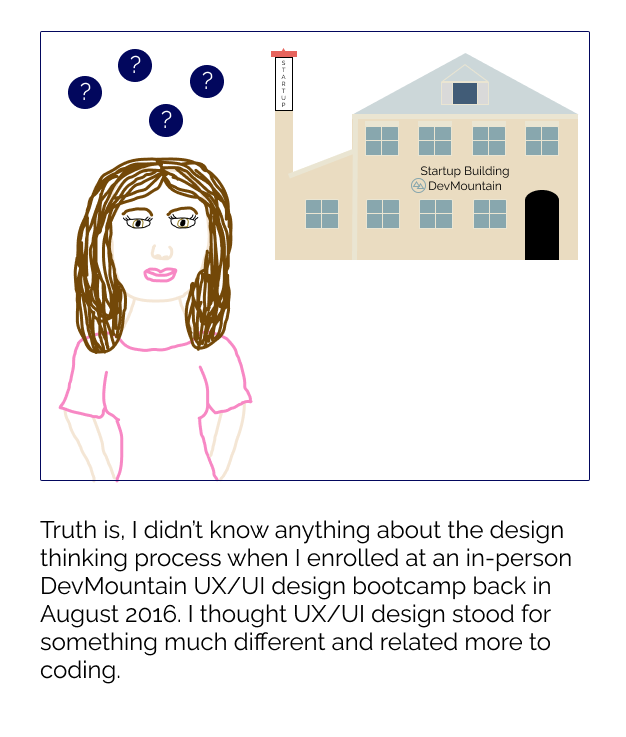
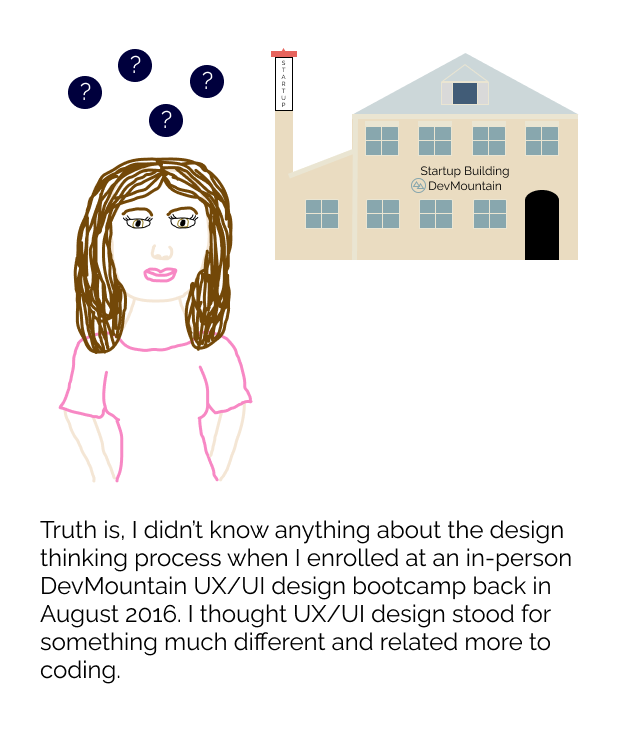
changed blue text color and added borders

Changed region(s): [[0.0911, 0.0624, 0.2428, 0.156], [0.2428, 0.0936, 0.3642, 0.1872]]

diff --git a/src/Pages/Landing.js b/src/Pages/Landing.js
@@ -8,12 +8,9 @@ import CardContent from '@mui/material/CardContent';
 import Typography from '@mui/material/Typography';
 import Box from '@mui/material/Box';
 import Link from '@mui/material/Link';
-import DVNImage from '../Images/disneyvsnetflix.png';
 import WebsiteUIDesignandRedesign from '../Images/codafi/websiteuidesign.png';
 import CCFinalMockups from '../Images/catwalkcompany/images/hi-fidelitywireframes/FinalMockups.png'; 
 import FLCINCMockup from '../Images/algebra1images/flcredesign.png'; 
-import tshirtDesigns from '../Images/homemadegifts/tshirtdesigns.png';
-import StoryBook from '../Images/logos/storybookinc.png'; 
 import '../../src/Portfolio.css';
 
 
@@ -44,7 +41,7 @@ const introText = {
   margin: '10px 0px',
   fontSize: '36px',
   fontFamily: 'Raleway, sans-serif', 
-  color: '#02075D',
+  color: '#00003D',
 
 }
 
@@ -63,7 +60,7 @@ const casestudyBox = {
 
 const headerStylesA = {
   margin: '50px auto', 
-  color: '#02075D',
+  color: '#00003D',
   fontSize: '36px', 
   fontFamily: 'Raleway, sans-serif', 
 //  fontWeight: '400', 
@@ -90,7 +87,10 @@ const cardStyles = {
 margin: '20px auto', 
 textDecoration: 'none',
 fontFamily: 'Raleway, sans-serif', 
-
+border: 'none', 
+boxShadow: '0px 0px 2px #ccc',
+borderRadius: '5px',
+backgroundColor: '#fef'
 }
 
 const cardStylesImage = {

diff --git a/src/Portfolio.css b/src/Portfolio.css
@@ -98,7 +98,7 @@ p {
 
  .navbar-nav a {
     font-family: 'Raleway';
-    color: #02075D !important;
+    color: #00003D !important;
     margin: 0px 20px !important; 
     border-bottom: 1px solid transparent;
     padding: 10px;
@@ -107,12 +107,12 @@ p {
 }
 
 .navbar-nav a:hover {
-border-bottom: 1px solid #02075D;
+border-bottom: 1px solid #00003D;
 padding: 10px;
 }
 
 .navbar-nav a:active {
-    border-bottom: 1px solid #02075D;
+    border-bottom: 1px solid #00003D;
     padding: 10px;
     }
 
@@ -127,14 +127,14 @@ padding: 10px;
 
 .navLinkSocial svg {
     margin: 0px 20px !important;
-    color: #02075D !important;
+    color: #00003D !important;
     font-size: 24px;
     border-bottom: 1px solid transparent;
     padding: 10px;
 }
 
 .navLinkSocial svg:hover {
-    border-bottom: 1px solid #02075D;
+    border-bottom: 1px solid #00003D;
     padding: 10px;
     
   
@@ -144,7 +144,7 @@ padding: 10px;
 
    
 .cardStyles:hover {
-    box-shadow: 8px 28px 50px rgba(39,44,49,.07), 1px 6px 12px rgba(39,44,49,.04);
+    box-shadow: 2px 10px 15px rgba(39,44,49,.07), 1px 6px 7px rgba(39,44,49,.04);
     transition: all .4s ease; /* zoom in */
     cursor: pointer; 
   

diff --git a/src/Pages/Resume.js b/src/Pages/Resume.js
@@ -13,7 +13,7 @@ import ResumePDF from '../Images/resume/aubreyjonesuxuidesignresume.pdf';
 
 const headerStylesA = {
   marginBottom: '50px', 
-  color: '#02075D',
+  color: '#00003D',
   fontSize: '36px', 
   fontFamily: 'Raleway, sans-serif', 
 //  fontWeight: '400', 
@@ -39,7 +39,7 @@ const cardStyles = {
 const headerStylesB = {
   marginTop: '50px', 
   marginBottom: '50px', 
-  color: '#02075D',
+  color: '#00003D',
   fontSize: '36px', 
   fontFamily: 'Raleway, sans-serif', 
 //  fontWeight: '400', 
@@ -50,7 +50,7 @@ const headerStylesB = {
 
 const resumeType = {
  // margin: '50px 100px 50px 50px', 
-  color: '#02075D',
+  color: '#00003D',
   fontSize: '24px', 
   fontFamily: 'Raleway, sans-serif', 
 }
@@ -60,14 +60,14 @@ const resumelink = {
   marginBottom: '50px',
   fontFamily: 'Raleway, sans-serif',
   textDecoration: 'none',
-  backgroundColor: '#02075D',
+  backgroundColor: '#00003D',
   padding: '10px',
   color: 'white',
   width: '100px',
   textAlign: 'center',
   "&:hover": {
     color: 'white',
-    backgroundColor: '#02075D',
+    backgroundColor: '#00003D',
    // border: '1px solid #30638E', 
     cursor: 'pointer'
    

diff --git a/src/Pages/About.js b/src/Pages/About.js
@@ -36,7 +36,7 @@ const boxStylesA = {
 
 const headerStylesA = {
   //margin: '50px auto', 
-  color: '#02075D',
+  color: '#00003D',
   fontSize: '36px', 
   fontFamily: 'Raleway, sans-serif', 
 //  fontWeight: '400', 
@@ -56,7 +56,7 @@ const boxStylesB = {
 const headerStylesB = {
   justifyContent: 'start',
   margin: '50px auto',
-  color: '#02075D',
+  color: '#00022E',
   fontSize: '36px', 
   fontFamily: 'Raleway, sans-serif', 
 //  fontWeight: '400', 
@@ -89,7 +89,7 @@ const cardStylesImage = {
 const testimonialTitle = {
   fontFamily: 'Raleway, sans-serif',
   fontSize: '28px', 
-  color: '#02075D',
+  color: '#00022E',
   margin: '25px 0px'
 }
 
@@ -100,7 +100,7 @@ const testimonialParagraph = {
 const questionStyles = {
   fontFamily: 'Raleway, sans-serif',
   fontSize: '28px', 
-  color: '#02075D',
+  color: '#00022E',
   margin: '50px 0px'
 }
 
@@ -118,7 +118,7 @@ const allIcons = {
 
 
 const oneIcon = {
-  color: '#02075D',
+  color: '#00022E',
   margin: '10px'
 }
 

diff --git a/src/Pages/CT.js b/src/Pages/CT.js
@@ -40,7 +40,7 @@ const boxStylesA = {
 
 const headerStylesA = {
   margin: '25px 0px', 
-  color: '#02075D',
+  color: '#00003D',
   fontSize: '36px', 
   fontFamily: 'Raleway, sans-serif', 
 //  fontWeight: '400', 
@@ -85,7 +85,7 @@ const paragraphA = {
 const headerStylesB = {
   justifyContent: 'start',
   margin: '50px 0px', 
-  color: '#02075D',
+  color: '#00003D',
   fontSize: '36px', 
   fontFamily: 'Raleway, sans-serif', 
 //  fontWeight: '400', 
@@ -98,7 +98,7 @@ const headerStylesB = {
 const sectiontitleB = {
   fontFamily: 'Raleway, sans-serif',
   fontSize: '28px', 
-  color: '#02075D',
+  color: '#00003D',
   margin: '50px 0px'
   }
 

diff --git a/src/Components/Footer.js b/src/Components/Footer.js
@@ -9,7 +9,7 @@ const footerStyles = {
   padding: '10px',
   fontFamily: 'Raleway, sans-serif',
   fontWeight: '300', 
-  color: '#02075D', 
+  color: '#00003D', 
   backgroundColor: 'white', 
   boxShadow: '0px 0px 2px #ccc',
   marginTop: '100px'
